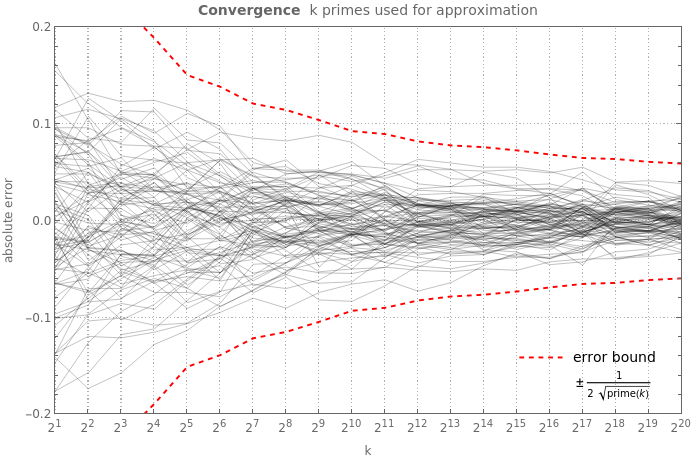
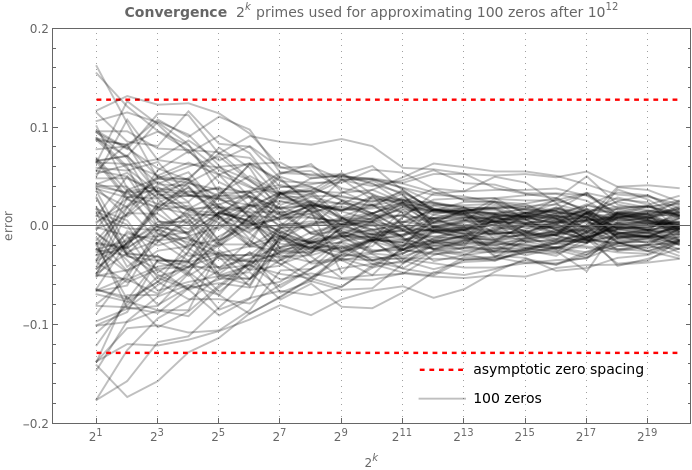
docs: error bounds attempts

Changed region(s): [[0.0, 0.0, 1.0, 1.0], [0.6069, 0.8271, 0.789, 0.8578], [0.2428, 0.1225, 0.2731, 0.1532]]

diff --git a/README.md b/README.md
@@ -30,8 +30,6 @@ Combines quadratic and cubic spline with correct frequency and tangents to match
 
 ## Towards convergence
 
-Error bounds derived from sum of exact saw peaks.
-
 ![waves](doc/convergence.png)
 
 ## Error distribution
